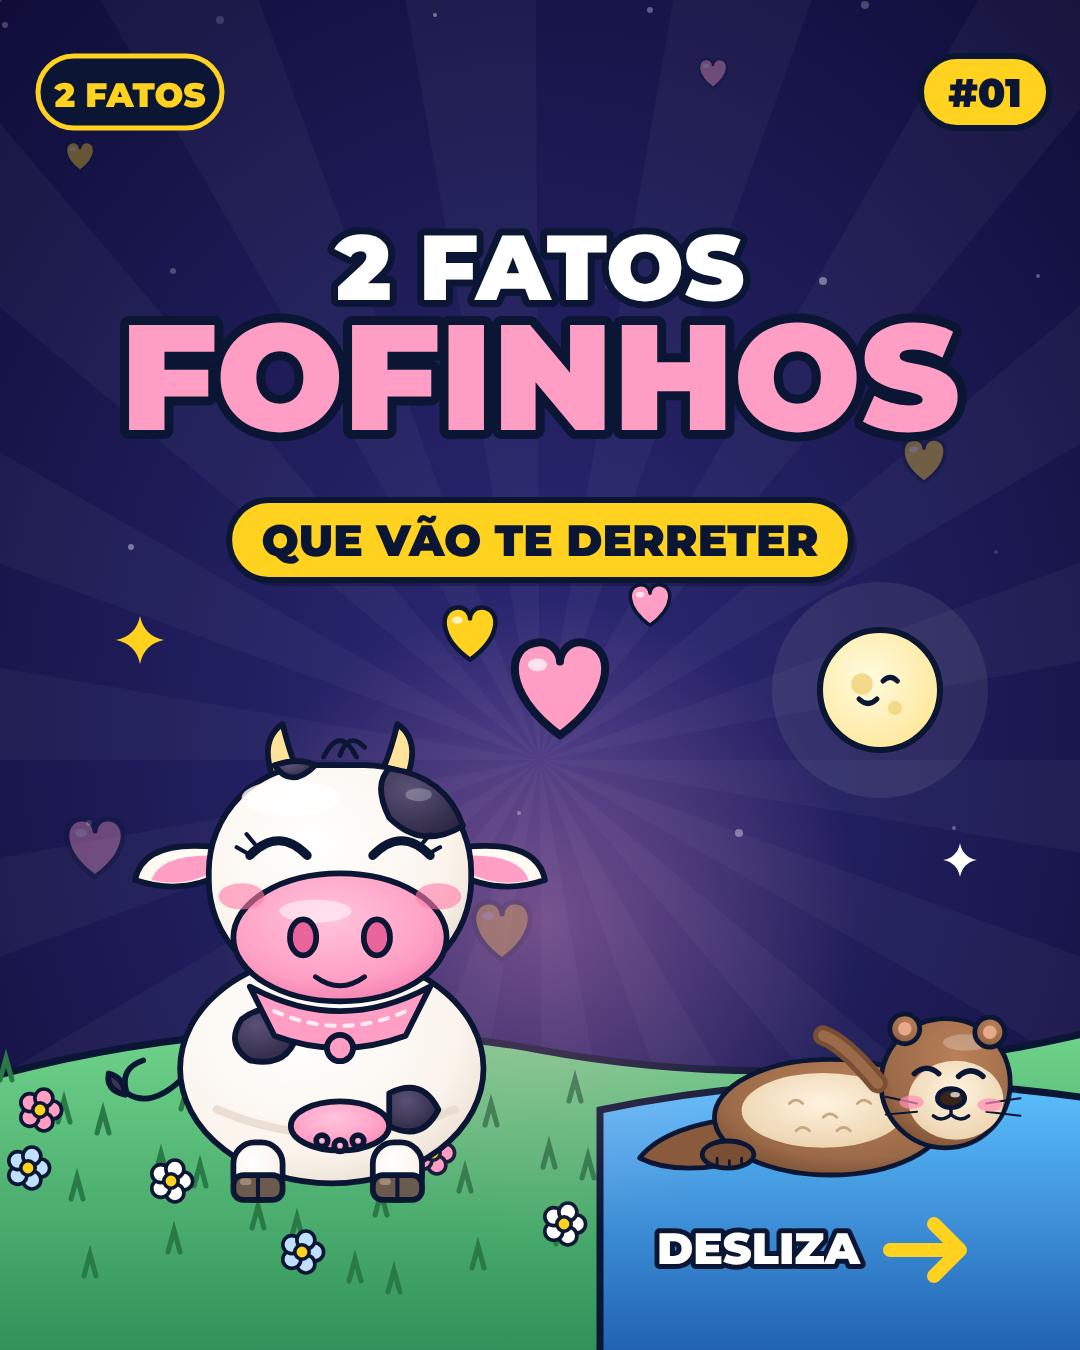
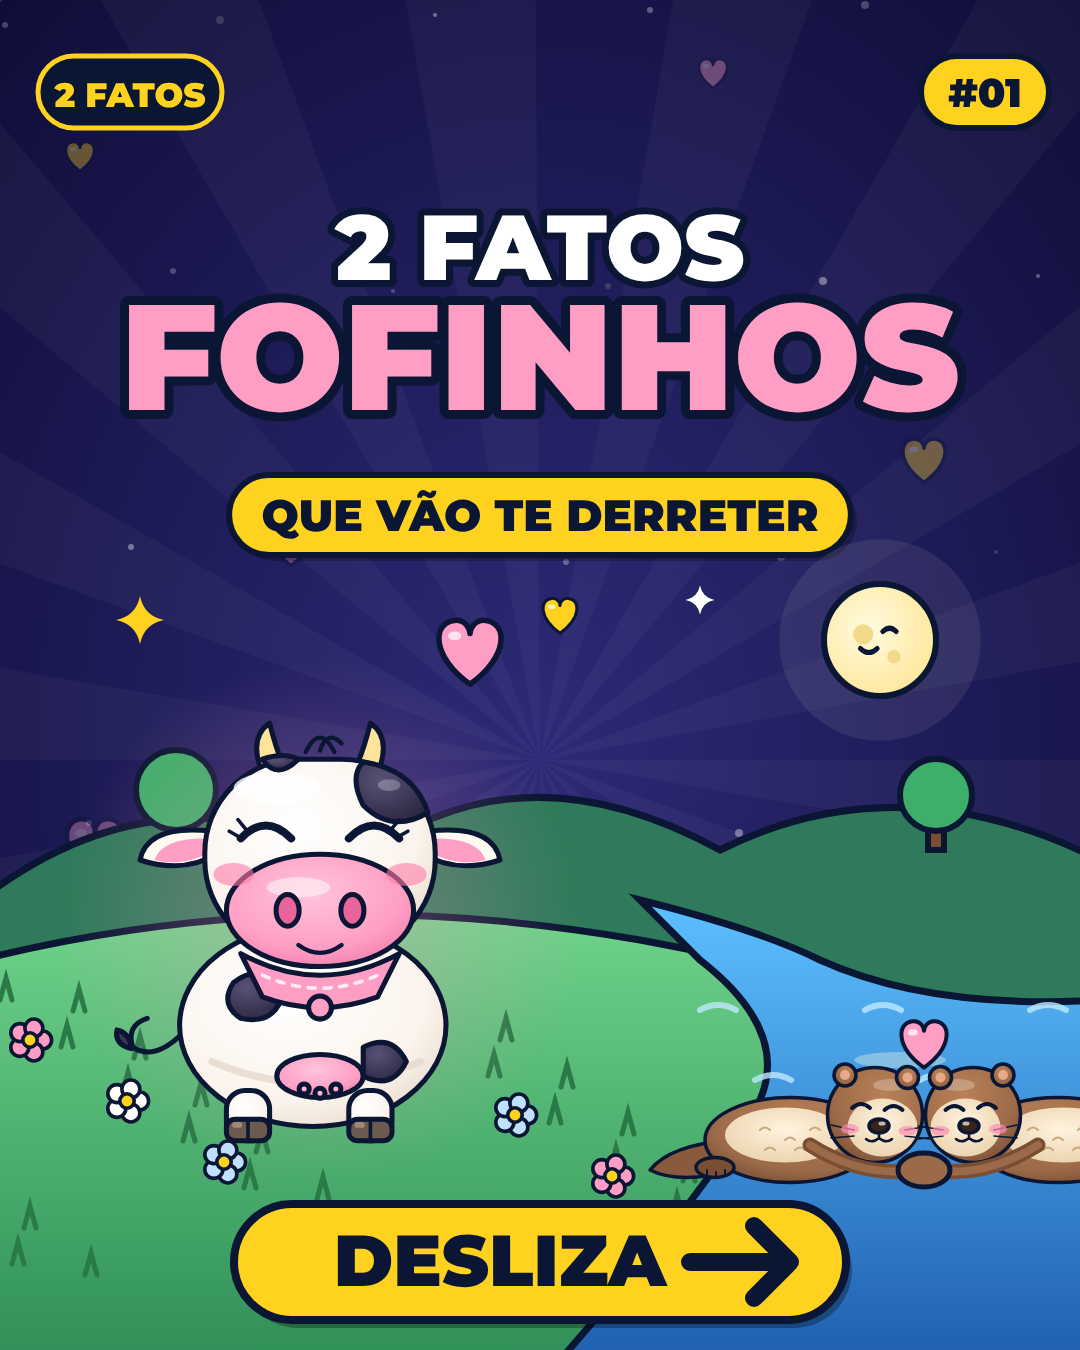
Carrossel fofinhos: capa com vale + rio, DESLIZA maior
Claude-Session: https://claude.ai/code/session_01466fSmg3pKuf6zqbkMuRWf

diff --git a/carrosseis/01-fofinhos/gerar.js b/carrosseis/01-fofinhos/gerar.js
@@ -81,16 +81,30 @@ function agua(y,t){ let o='<path d="M0,'+y+' Q135,'+(y-30)+' 270,'+y+' T540,'+y+
   return o; }
 `;
 const S=[];
-// 1 · CAPA
+// 1 · CAPA — vale com a vaca + rio com as lontras
 S.push(`(()=>{let o=fundo(0)+marca()+canto('01');
- o+=fTxt(540,300,'2 FATOS',92,'#fff')+fTxt(540,430,'FOFINHOS',150,'#ff9ec4','middle',18);
- o+=pill(540,540,'QUE VÃO TE DERRETER','#ffd21f','#0a1633',44);
- o+=lua(880,690,60)+brilho(140,640,1,'#ffd21f')+brilho(960,860,.7,'#fff');
- o+=grama(1040)+'<path d="M600,1110 Q840,1060 1100,1100 V1360 H600 Z" fill="url(#gWater)" stroke="#0a1633" stroke-width="7"/>';
- o+='<circle cx="540" cy="920" r="320" fill="url(#gGlow)"/>';
- o+=vaca(340,880,.82,1,'feliz','#ff9ec4')+lontra(830,1090,.68,-1,30);
- o+=coracao(560,700,1.6,'#ff9ec4')+coracao(470,640,.9,'#ffd21f')+coracao(650,610,.7,'#ff9ec4');
- o+=seta(890,1250);
+ o+=fTxt(540,280,'2 FATOS',92,'#fff')+fTxt(540,410,'FOFINHOS',150,'#ff9ec4','middle',18);
+ o+=pill(540,515,'QUE VÃO TE DERRETER','#ffd21f','#0a1633',44);
+ o+=lua(880,640,56)+brilho(140,620,1,'#ffd21f')+brilho(700,600,.6,'#fff');
+ // montes ao fundo
+ o+='<path d="M-20,900 Q160,760 360,860 Q520,740 720,850 Q900,760 1100,860 V1360 H-20 Z" fill="#2f7a5a" stroke="#0a1633" stroke-width="7"/>';
+ o+='<g stroke="#0a1633" stroke-width="6"><rect x="168" y="800" width="16" height="50" fill="#7a4e32"/><circle cx="176" cy="790" r="40" fill="#3fae6a"/><rect x="928" y="805" width="16" height="45" fill="#7a4e32"/><circle cx="936" cy="795" r="36" fill="#3fae6a"/></g>';
+ // vale
+ o+='<path d="M-20,960 Q300,880 640,940 Q800,970 900,1000 L760,1360 H-20 Z" fill="url(#gGrass)" stroke="#0a1633" stroke-width="7"/>';
+ for(let i=0;i<26;i++){const x=(i*61)%720, yy=1000+(i*47)%300; o+='<path d="M'+x+','+yy+' l6,-22 l6,22" fill="none" stroke="#2a7a48" stroke-width="5" stroke-linecap="round"/>';}
+ for(let i=0;i<7;i++) o+=flor((i*97+30)%660,1040+(i*61)%230,.9,['#ff9ec4','#ffffff','#bfe0ff'][i%3]);
+ // rio
+ o+='<path d="M640,900 Q760,930 820,960 Q930,1010 1100,1000 V1360 H560 Q700,1200 760,1100 Q790,1030 700,960 Z" fill="url(#gWater)" stroke="#0a1633" stroke-width="7"/>';
+ for(let i=0;i<7;i++) o+='<path d="M'+(700+i*55)+','+(1010+(i%3)*70)+' q18,-10 36,0" fill="none" stroke="#bfe9ff" stroke-width="6" stroke-linecap="round" opacity=".8"/>';
+ o+='<ellipse cx="900" cy="1060" rx="46" ry="8" fill="#fffbe0" opacity=".35"/>';
+ // vaca no vale
+ o+='<circle cx="320" cy="920" r="260" fill="url(#gGlow)"/>'+vaca(320,860,.72,1,'feliz','#ff9ec4');
+ // lontras no rio de mãos dadas
+ o+=lontra(790,1120,.5,-1,-999)+lontra(1058,1120,.5,1,-999);
+ o+='<ellipse cx="924" cy="1170" rx="26" ry="17" fill="#9b6a48" stroke="#0a1633" stroke-width="5"/>';
+ o+=coracao(924,1050,.8,'#ff9ec4')+coracao(470,660,1.1,'#ff9ec4')+coracao(560,620,.6,'#ffd21f');
+ // DESLIZA grande
+ o+='<g transform="translate(540 1262)"><rect x="-306" y="-58" width="612" height="116" rx="58" fill="#000" opacity=".3" transform="translate(6 8)"/><rect x="-306" y="-58" width="612" height="116" rx="58" fill="#ffd21f" stroke="#0a1633" stroke-width="8"/><text x="-40" y="24" font-family="M" font-weight="900" font-size="72" fill="#0a1633" text-anchor="middle">DESLIZA</text><path d="M150,0 h100 m-36,-36 l36,36 l-36,36" fill="none" stroke="#0a1633" stroke-width="18" stroke-linecap="round" stroke-linejoin="round"/></g>';
  return o;})()`);
 // 2 · FATO 1 — vacas
 S.push(`(()=>{let o=fundo(1)+marca()+canto('02');
